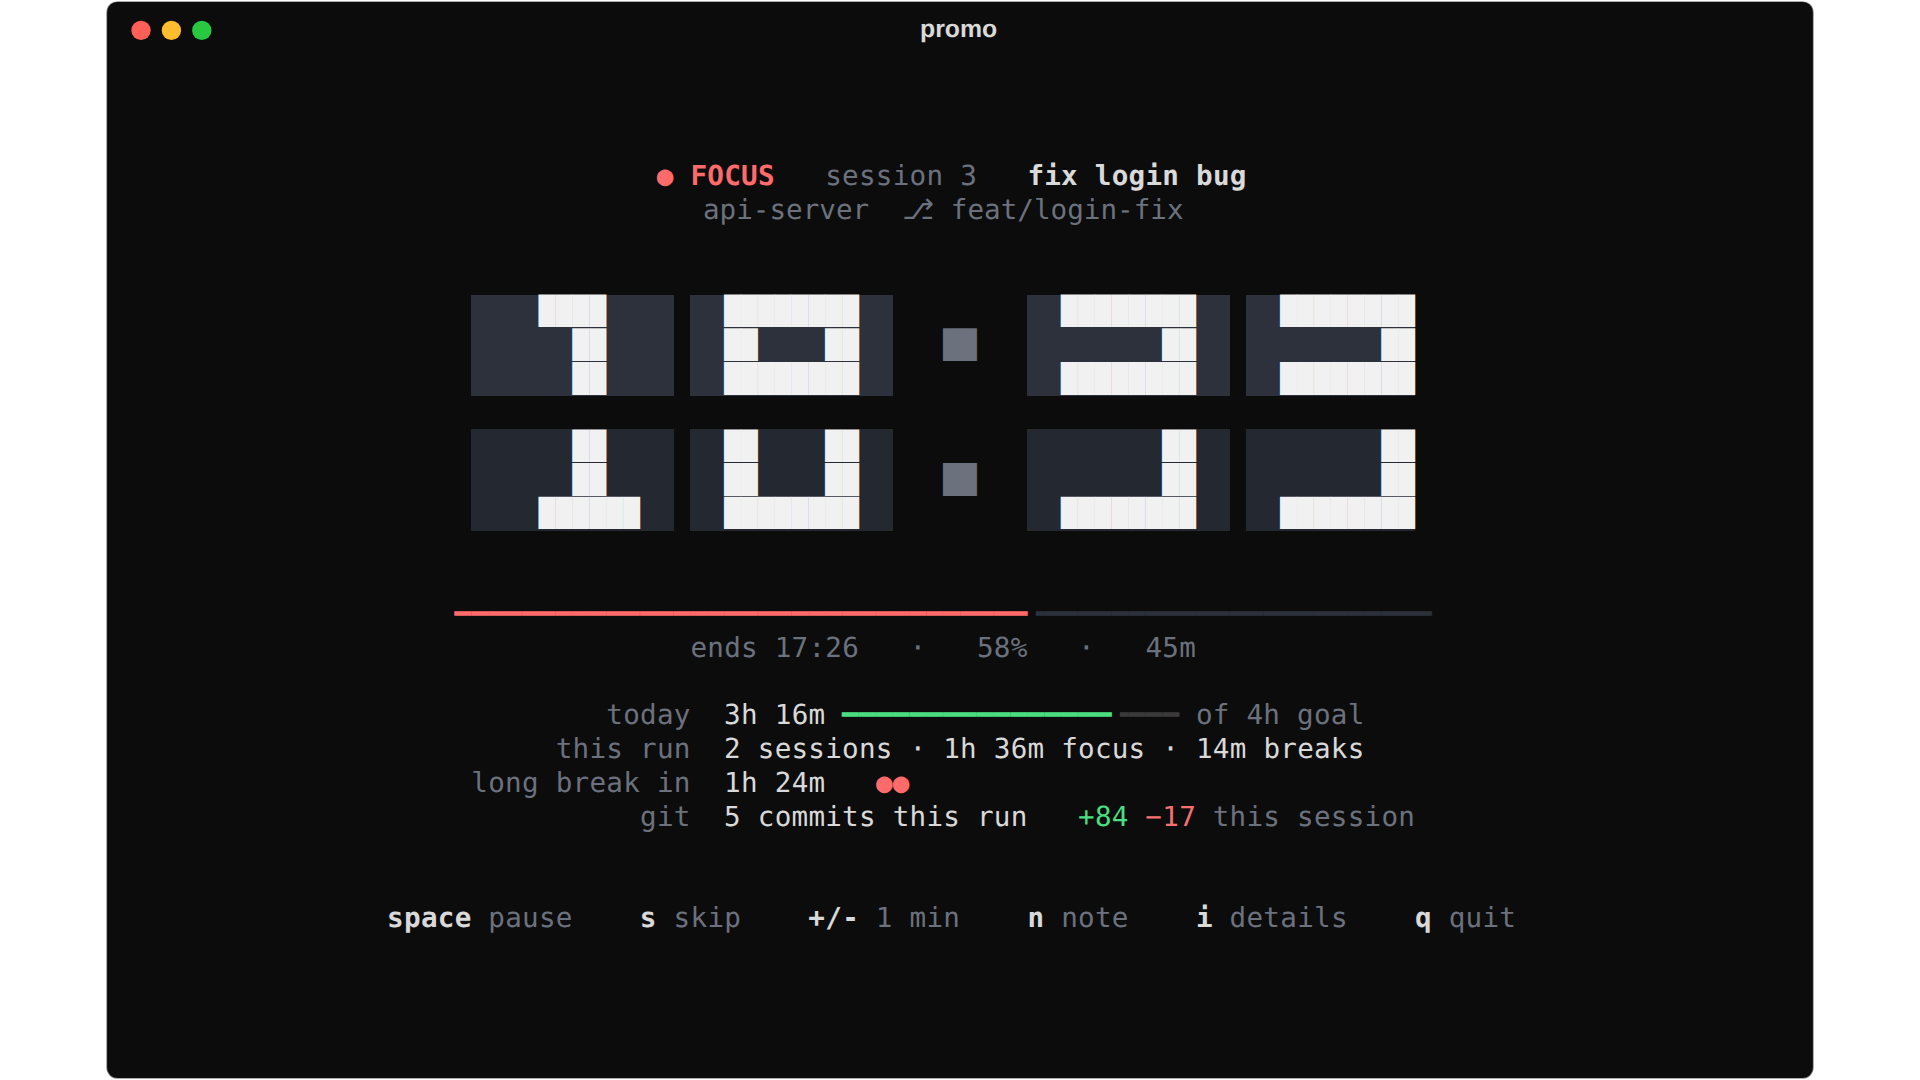
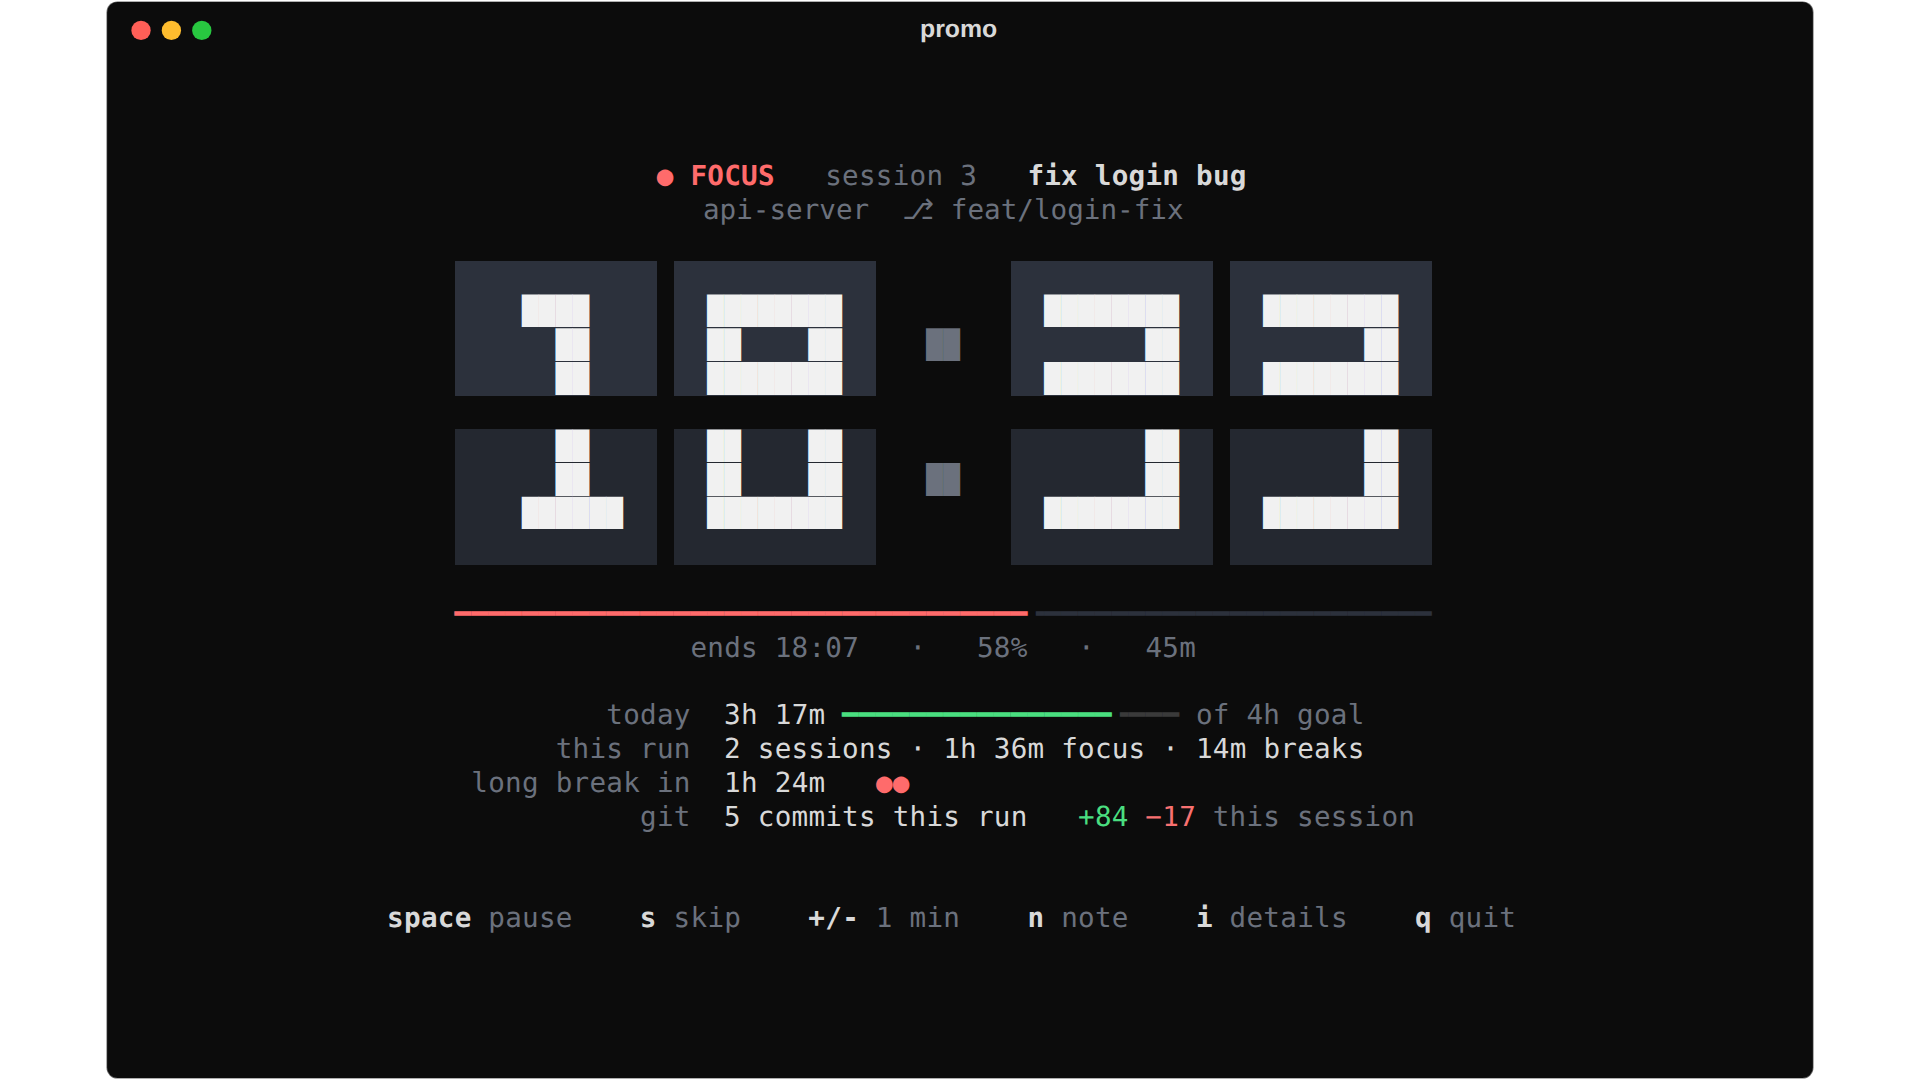
Fix misaligned flip-clock rows
Rich strips trailing spaces when centering each line, so clock rows that
ended in blank card padding shifted sideways and the padding rows vanished.
Render the clock left-aligned with no wrapping and center it as one block.
Refresh the README screenshots.

Claude-Session: https://claude.ai/code/session_016uaKrhZzb8UBUoaSs4kTGR

diff --git a/promo.py b/promo.py
@@ -188,8 +188,10 @@ class FlipClock:
                 rows[2 + g].append(f"  {_pixels(glyph_bottom[g])}  ",
                                    style=f"bold {bottom_fg} on {CARD_BOTTOM}")
             rows[8].append(" " * CARD_WIDTH, style=f"on {CARD_BOTTOM}")
+        # Center the clock as one block. Per-line centering strips trailing
+        # spaces, which shifts rows that end in blank card padding.
         out = Text("\n").join(rows)
-        out.justify = "center"
+        out.no_wrap = True
         return out
 
     @staticmethod
@@ -197,7 +199,7 @@ class FlipClock:
         rows = ["  ".join(_pixels(SMALL_FONT[c][r]) if c.isdigit()
                           else SMALL_FONT[c][r].replace("#", "█")
                           for c in value) for r in range(5)]
-        return Text("\n".join(rows), style=style, justify="center")
+        return Text("\n".join(rows), style=style, no_wrap=True)
 
 
 def fmt_clock(seconds: float) -> str:
@@ -585,7 +587,7 @@ class UI:
             info.append(f"ends {ends:%H:%M}   ·   {int(phase.fraction * 100)}%"
                         f"   ·   {fmt_minutes(phase.planned / 60)}")
         toast = self.app.current_toast()
-        parts = [self._header(phase), Text(""), clock, Text(""),
+        parts = [self._header(phase), Text(""), Align.center(clock), Text(""),
                  Align.center(bar), info]
         if self.app.show_details:
             parts += [Text(""), Align.center(self._details(phase))]
